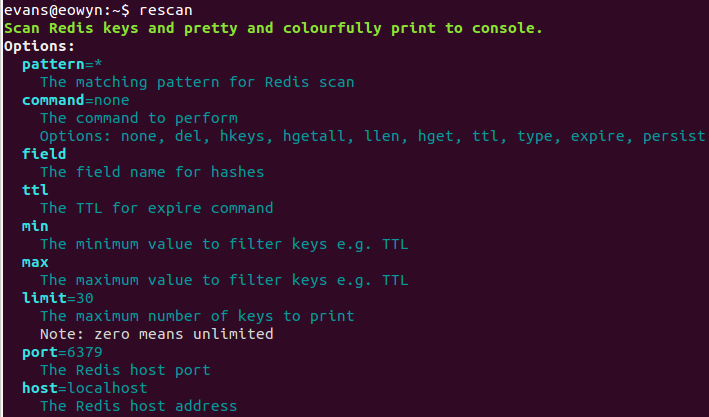
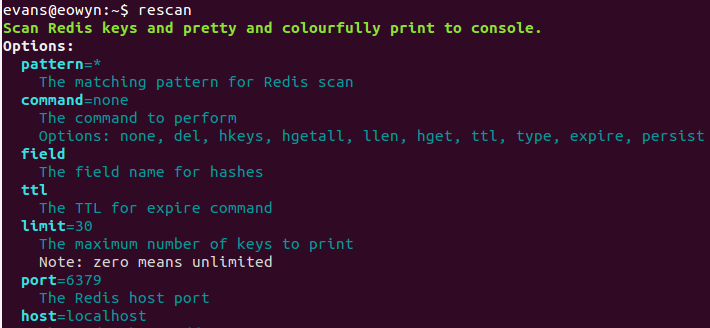
initial

diff --git a/lib/spec.js b/lib/spec.js
@@ -20,16 +20,6 @@ module.exports = pkg => ({
             unit: 's',
             requiredEnv: env => ['expire'].includes(env.command)
         },
-        min: {
-            description: 'the minimum value to filter keys e.g. TTL',
-            type: 'integer',
-            required: false
-        },
-        max: {
-            description: 'the maximum value to filter keys e.g. TTL',
-            type: 'integer',
-            required: false
-        },
         limit: {
             description: 'the maximum number of keys to print',
             note: 'zero means unlimited',
@@ -45,6 +35,16 @@ module.exports = pkg => ({
         },
         password: {
             description: 'the Redis host password',
+            required: false
+        },
+        min: {
+            description: 'the minimum value to filter keys e.g. TTL',
+            type: 'integer',
+            required: false
+        },
+        max: {
+            description: 'the maximum value to filter keys e.g. TTL',
+            type: 'integer',
             required: false
         },
         format: {

diff --git a/README.md b/README.md
@@ -2,7 +2,7 @@
 
 Scan Redis keys and pretty and colourfully print to console.
 
-<img src='https://raw.githubusercontent.com/evanx/rescan/master/docs/readme/images/main2.png'>
+<img src='https://raw.githubusercontent.com/evanx/rescan/master/docs/readme/images/main.png'>
 
 
 ## Installation
